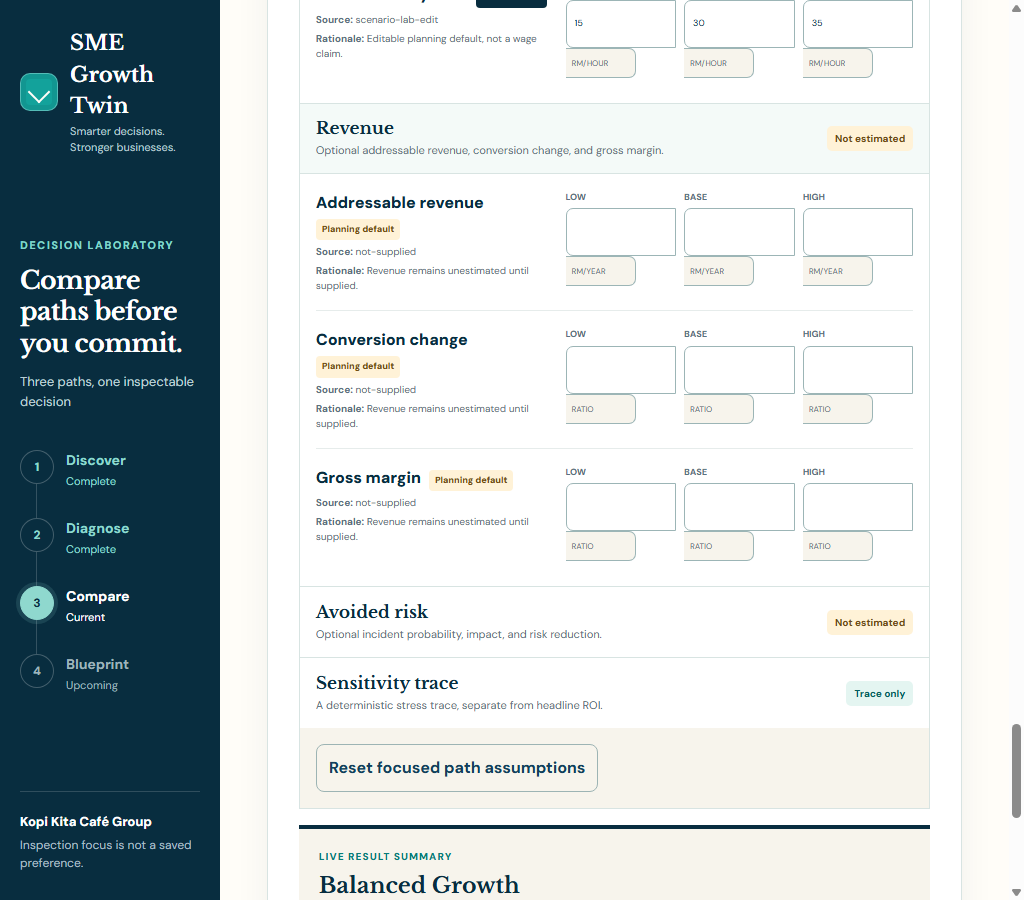
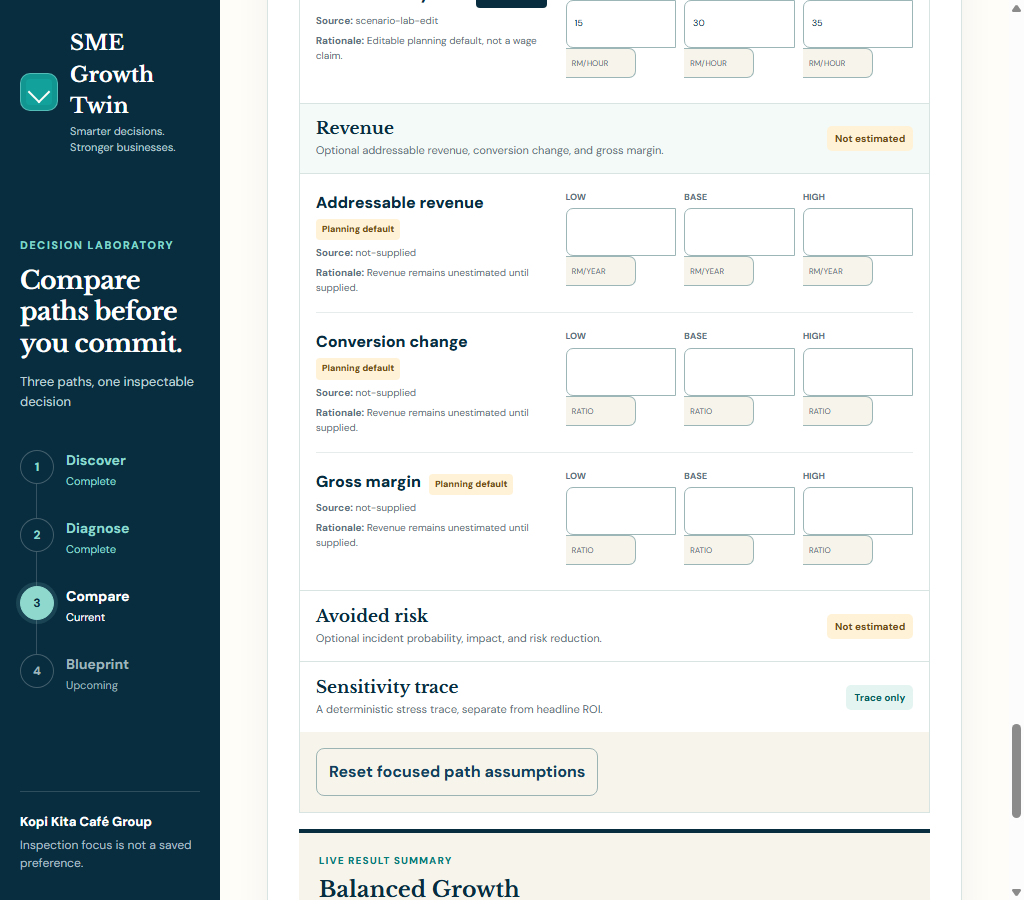
refactor(ui): consolidate scenario ROI styles

diff --git a/sme-growth-twin/src/app/styles.css b/sme-growth-twin/src/app/styles.css
@@ -905,89 +905,8 @@ select:focus-visible, textarea:focus-visible {
 .journey-rail .done span { color: white; background: #69b6ad; }
 .journey-rail .current { color: var(--teal); font-weight: 800; }
 .journey-rail .current span { color: white; background: var(--teal); box-shadow: 0 0 0 5px #dff4ef; }
-.scenarios-shell { max-width: 1440px; margin: auto; padding: 6px clamp(24px, 5vw, 72px) 72px; }
-.scenarios-hero { min-height: 190px; display: grid; grid-template-columns: minmax(0, 1.2fr) minmax(320px, .55fr); gap: clamp(28px, 5vw, 72px); align-items: center; }
-.scenarios-hero h1 { margin: 0; font: 700 clamp(40px, 4.5vw, 66px)/1.04 Georgia, serif; letter-spacing: -.035em; }
-.scenarios-hero aside { padding: 20px 22px; display: grid; gap: 7px; border: 1px solid #cae7e4; border-radius: 17px; background: linear-gradient(135deg, white, #eff9f7); }
-.scenarios-hero aside span, .scenarios-hero aside small { color: var(--muted); }
-.comparison-intro { margin: 18px 0 22px; padding: 21px 24px; display: flex; justify-content: space-between; align-items: center; gap: 30px; border: 1px solid #d7e9ea; border-radius: 16px; background: #f7fbfb; }
-.comparison-intro h2 { margin: 0; font: 700 28px Georgia, serif; }
-.comparison-intro p { margin: 4px 0 0; color: var(--muted); }
-.comparison-intro > p { max-width: 390px; font-size: 13px; text-align: right; }
-.scenario-grid { display: grid; grid-template-columns: repeat(3, minmax(0, 1fr)); gap: 18px; align-items: start; }
-.scenario-card { min-width: 0; overflow: hidden; border: 1px solid #cce6e2; border-radius: 19px; background: linear-gradient(160deg, #eaf8f4, white 25%); box-shadow: 0 10px 32px rgb(18 54 87 / 5%); }
-.scenario-card.balanced_growth { border-color: #c7dff4; background: linear-gradient(160deg, #edf6ff, white 25%); }
-.scenario-card.accelerated_ai { border-color: #efd6b5; background: linear-gradient(160deg, #fff6e9, white 25%); }
-.scenario-card.focused { box-shadow: 0 0 0 3px rgb(0 117 118 / 13%), 0 14px 38px rgb(18 54 87 / 8%); }
-.scenario-card > header { min-height: 160px; padding: 22px; display: flex; justify-content: space-between; gap: 14px; border-bottom: 1px solid var(--line); }
-.scenario-card h2 { margin: 2px 0 4px; font: 700 27px Georgia, serif; }
-.scenario-card header p { margin: 5px 0; color: var(--muted); font-size: 13px; }
-.scenario-kicker { color: var(--teal) !important; font-weight: 800; text-transform: uppercase; letter-spacing: .1em; }
-.preferred-chip { height: fit-content; flex: none; padding: 5px 9px; border-radius: 999px; color: white; background: var(--teal); font-size: 11px; font-weight: 800; }
-.scenario-metrics { margin: 0; padding: 15px 20px; display: grid; grid-template-columns: 1fr 1fr; }
-.scenario-metric { min-width: 0; padding: 11px 7px; border-bottom: 1px solid var(--line); }
-.scenario-metric dt { color: var(--muted); font-size: 10px; text-transform: uppercase; }
-.scenario-metric dd { margin: 3px 0 0; overflow-wrap: anywhere; color: var(--navy); font-size: 12px; font-weight: 800; }
-.scenario-scope { margin: 0 20px 15px; padding: 15px; border-radius: 11px; background: #f1f9f7; }
-.balanced_growth .scenario-scope { background: #f1f7fd; }
-.accelerated_ai .scenario-scope { background: #fff7ed; }
-.scenario-scope h3 { margin: 0; font: 700 16px Georgia, serif; }
-.scenario-scope ul { margin: 9px 0 0; padding-left: 18px; color: var(--muted); font-size: 12px; }
-.conditional-scope { margin-top: 13px; padding-top: 12px; border-top: 1px solid #e5cda9; color: #94510e; font-size: 12px; }
-.conditional-scope p { margin: 6px 0 0; }
-.quote-note { margin: 0 20px 14px; color: #755019; font-size: 11px; font-weight: 700; }
-.scenario-actions { padding: 0 20px 20px; display: grid; grid-template-columns: 1fr 1fr; gap: 8px; }
-.scenario-actions .button { min-width: 0; min-height: 44px; padding: 8px 10px; font-size: 11px; }
-.scenario-detail { margin-top: 25px; padding: clamp(18px, 3vw, 28px); border: 1px solid var(--line); border-radius: 19px; background: rgb(255 255 255 / 95%); box-shadow: 0 10px 34px rgb(18 54 87 / 5%); }
-.scenario-detail > header { display: flex; justify-content: space-between; gap: 24px; align-items: center; }
-.scenario-detail h2 { margin: 0; font: 700 30px Georgia, serif; }
-.scenario-detail header p { margin: 5px 0 0; color: var(--muted); }
-.detail-summary { flex: none; padding: 13px 16px; border-radius: 11px; background: #eff9f7; text-align: right; }
-.detail-summary strong, .detail-summary span { display: block; }
-.detail-summary span { color: var(--muted); font-size: 10px; }
-.timeline { margin-top: 22px; display: grid; grid-template-columns: repeat(12, minmax(76px, 1fr)); gap: 5px; overflow-x: auto; padding-bottom: 8px; }
-.timeline article { min-height: 126px; padding: 10px 8px; border-top: 4px solid #65bdb0; border-radius: 8px; background: #f4f9f9; }
-.timeline strong, .timeline span, .timeline small { display: block; }
-.timeline strong { font-size: 10px; }
-.timeline span { margin-top: 8px; color: var(--navy); font-size: 9px; }
-.timeline small { margin-top: 6px; color: #8a5a16; font-size: 8px; }
-.detail-columns { margin-top: 18px; display: grid; grid-template-columns: 1fr 1fr; gap: 15px; }
-.detail-columns > section { min-width: 0; padding: 17px; border-radius: 12px; background: #f6faf9; }
-.detail-columns h3 { margin: 0 0 10px; font: 700 18px Georgia, serif; }
-.detail-columns p, .detail-columns li { color: var(--muted); font-size: 12px; }
-.detail-columns dl { margin: 0; }
-.detail-columns dl div { padding: 7px 0; display: flex; justify-content: space-between; gap: 14px; border-bottom: 1px solid var(--line); font-size: 11px; }
-.detail-columns dd { margin: 0; text-align: right; font-weight: 800; }
-.detail-columns summary { min-height: 44px; display: flex; align-items: center; color: var(--teal); font-size: 12px; font-weight: 800; cursor: pointer; }
-.warning-list { padding: 12px 12px 12px 28px; border: 1px solid #efd09d; border-radius: 10px; background: #fff8ec; }
-.assumptions-panel { margin-top: 20px; border: 1px solid var(--line); border-radius: 19px; background: white; overflow: hidden; }
-.assumptions-panel > summary { min-height: 70px; padding: 16px 22px; display: flex; justify-content: space-between; align-items: center; gap: 20px; color: var(--teal); background: linear-gradient(135deg, #eef9f7, #f5f9ff); cursor: pointer; }
-.assumptions-panel > summary span > * { display: block; }
-.assumptions-panel > summary strong { color: var(--navy); font: 700 23px Georgia, serif; }
-.assumptions-panel > summary small { color: var(--muted); font-size: 12px; }
-.assumption-groups { padding: 18px; display: grid; grid-template-columns: 1fr 1fr; gap: 14px; }
-.assumption-group { min-width: 0; margin: 0; padding: 16px; border: 1px solid #d4e9e5; border-radius: 13px; background: #fbfefd; }
-.assumption-group.revenue { border-color: #d8e4f1; background: #f8fbff; }
-.assumption-group.avoidedRisk { border-color: #efd9ba; background: #fffaf2; }
-.assumption-group legend { padding: 0 7px; font: 700 20px Georgia, serif; }
-.assumption-row { padding: 13px 0; display: grid; grid-template-columns: minmax(150px, .8fr) minmax(270px, 1.2fr); gap: 14px; border-bottom: 1px solid var(--line); }
-.assumption-row > div:first-child label { font-weight: 800; }
-.assumption-row > div:first-child small, .assumption-row > div:first-child p { display: block; margin: 4px 0 0; color: var(--muted); font-size: 10px; }
-.range-inputs { display: grid; grid-template-columns: repeat(3, 1fr); gap: 6px; }
-.range-inputs label span { display: block; margin-bottom: 4px; color: var(--muted); font-size: 9px; text-transform: uppercase; }
-.range-inputs input, .sensitivity input { min-width: 0; width: 100%; min-height: 44px; padding: 8px; border: 1px solid #bfd3d7; border-radius: 8px; color: var(--navy); background: white; }
-.range-inputs input[aria-invalid="true"] { border-color: var(--coral); }
-.range-inputs .error { font-size: 9px; }
-.reset-link { min-height: 44px; margin-top: 10px; padding: 8px 0; border: 0; color: var(--teal); background: transparent; font-weight: 800; text-decoration: underline; cursor: pointer; }
-.assumption-group.sensitivity { grid-column: 1 / -1; }
-.stage-five-handoff { margin-top: 22px; padding: 22px 24px; display: flex; justify-content: space-between; align-items: center; gap: 22px; border-radius: 16px; background: linear-gradient(135deg, #eaf7f5, #f4f8ff); }
-.stage-five-handoff h2 { margin: 0; font: 700 28px Georgia, serif; }
-.stage-five-handoff p:not(.eyebrow) { margin: 5px 0 0; color: var(--muted); }
-
 @media (max-width: 1000px) {
   .review-grid { grid-template-columns: repeat(2, minmax(0, 1fr)); }
-  .scenario-grid { grid-template-columns: 1fr; }
-  .scenario-card > header { min-height: auto; }
 }
 @media (max-width: 900px) {
   .progress { margin: 0 24px 28px; }
@@ -1005,17 +924,13 @@ select:focus-visible, textarea:focus-visible {
   .metrics-grid, .insight-grid { grid-template-columns: 1fr; }
   .results-footer { grid-template-columns: 1fr; }
   .journey-rail { margin: 0 24px 28px; }
-  .scenarios-shell { padding-top: 0; }
-  .scenarios-hero { min-height: auto; grid-template-columns: 1fr; }
-  .assumption-groups { grid-template-columns: 1fr; }
-  .assumption-group.sensitivity { grid-column: auto; }
 }
 @media (max-width: 620px) {
   .topbar { padding: 18px 16px; }
   .brand small, .trust-chip { display: none; }
   .save-status { font-size: 12px; }
-  .home, .assessment-shell, .review-shell, .analysis-shell, .results-shell, .scenarios-shell { padding-right: 16px; padding-left: 16px; }
-  .assessment-shell, .review-shell, .analysis-shell, .results-shell, .scenarios-shell { padding-bottom: calc(3rem + env(safe-area-inset-bottom)); }
+  .home, .assessment-shell, .review-shell, .analysis-shell, .results-shell { padding-right: 16px; padding-left: 16px; }
+  .assessment-shell, .review-shell, .analysis-shell, .results-shell { padding-bottom: calc(3rem + env(safe-area-inset-bottom)); }
   .home { padding-top: 48px; }
   .hero h1, .assessment-shell h1, .review-shell > h1 { font-size: 38px; }
   .coverage { margin-top: 52px; }
@@ -1052,29 +967,6 @@ select:focus-visible, textarea:focus-visible {
   .results-footer .button { width: 100%; }
   .journey-rail { margin-right: 16px; margin-left: 16px; }
   .journey-rail li em { font-size: 10px; }
-  .scenarios-hero h1 { font-size: 36px; }
-  .comparison-intro, .stage-five-handoff { padding: 17px 14px; display: block; }
-  .comparison-intro > p { margin-top: 12px; text-align: left; }
-  .scenario-card > header { padding: 18px 14px; }
-  .scenario-metrics { padding: 12px; }
-  .scenario-scope { margin-right: 14px; margin-left: 14px; }
-  .quote-note { margin-right: 14px; margin-left: 14px; }
-  .scenario-actions { padding: 0 14px 16px; grid-template-columns: 1fr; }
-  .scenario-actions .button { width: 100%; }
-  .scenario-detail { padding: 17px 14px; }
-  .scenario-detail > header { display: block; }
-  .detail-summary { margin-top: 14px; text-align: left; }
-  .timeline { display: grid; grid-template-columns: 1fr; overflow: visible; }
-  .timeline article { min-height: 0; border-top: 0; border-left: 4px solid #65bdb0; }
-  .detail-columns { grid-template-columns: 1fr; }
-  .assumptions-panel > summary { padding: 14px; }
-  .assumptions-panel > summary > span:last-child { display: none; }
-  .assumption-groups { padding: 12px; }
-  .assumption-group { padding: 13px 11px; }
-  .assumption-row { grid-template-columns: 1fr; }
-  .range-inputs { grid-template-columns: 1fr; }
-  .range-inputs label { min-width: 0; }
-  .stage-five-handoff .button { width: 100%; margin-top: 15px; }
 }
 @media (prefers-reduced-motion: reduce) {
   *, *::before, *::after {
@@ -2465,7 +2357,9 @@ select:focus-visible, textarea:focus-visible {
 .assumption-row { min-width: 0; padding: 17px 0; display: grid; grid-template-columns: minmax(190px, .8fr) minmax(320px, 1.2fr); gap: 18px; border-bottom: 1px solid #e6eceb; }
 .assumption-row:last-child { border-bottom: 0; }
 .assumption-context { min-width: 0; }
-.assumption-context > .assumption-label { margin-right: 8px; color: var(--color-ink-950); font-weight: 850; }
+.assumption-context > .assumption-label,
+.assumption-context > label { margin-right: 8px; color: var(--color-ink-950); font-weight: 850; }
+.assumption-row > .assumption-context > label { font-weight: 800; }
 .source-badge { padding: 4px 6px; display: inline-block; border-radius: 4px; font-size: 9px; font-weight: 850; }
 .source-user_fact { color: #205d4d; background: #dff1e9; }
 .source-derived_user_fact { color: #24567a; background: #e1eef7; }
@@ -2475,7 +2369,7 @@ select:focus-visible, textarea:focus-visible {
 .range-inputs { min-width: 0; display: grid; grid-template-columns: repeat(3, minmax(0, 1fr)); gap: 8px; }
 .range-inputs > label > span:first-child,
 .seed-field > span { margin-bottom: 4px; display: block; color: var(--color-text-muted); font-size: 9px; font-weight: 800; text-transform: uppercase; }
-.input-with-unit { min-width: 0; display: grid; grid-template-columns: minmax(0, 1fr) auto; align-items: stretch; }
+.input-with-unit { min-width: 0; margin-bottom: 4px; display: block; color: var(--color-text-muted); font-size: 9px; text-transform: uppercase; }
 .input-with-unit input,
 .seed-field input { min-width: 0; width: 100%; min-height: 48px; padding: 9px 8px; border: 1px solid #9cb5b6; border-radius: 7px 0 0 7px; color: var(--color-ink-950); background: white; }
 .input-with-unit small { max-width: 70px; padding: 8px 6px; display: flex; align-items: center; border: 1px solid #9cb5b6; border-left: 0; border-radius: 0 7px 7px 0; color: var(--color-text-muted); background: var(--color-paper-100); font-size: 8px; overflow-wrap: anywhere; }
@@ -2595,6 +2489,7 @@ select:focus-visible, textarea:focus-visible {
   .assumption-section > summary span > small { max-width: 210px; }
   .assumption-section fieldset { padding: 0 12px 4px; }
   .range-inputs { grid-template-columns: 1fr; }
+  .range-inputs label { min-width: 0; }
   .input-with-unit small { min-width: 74px; max-width: 100px; }
   .reset-assumptions > div { grid-template-columns: 1fr; }
   .reset-assumptions .button { width: 100%; }

diff --git a/sme-growth-twin/tests/unit/phase05-scenario-roi-ui.test.tsx b/sme-growth-twin/tests/unit/phase05-scenario-roi-ui.test.tsx
@@ -60,4 +60,16 @@ describe("Phase 05 Scenario and ROI Lab UI contract", () => {
     expect(source).toContain("recalculateScenarioComparison(");
     expect(source).not.toMatch(/fetch\(|XMLHttpRequest|WebSocket|ModelProvider/);
   });
+
+  it("keeps one authoritative Phase 05 scenario style system", async () => {
+    const styles = await readFile(path.join(process.cwd(), "src/app/styles.css"), "utf8");
+    for (const legacySelector of [
+      ".scenarios-shell {", ".scenarios-hero {", ".comparison-intro {", ".scenario-grid {",
+      ".scenario-card {", ".scenario-metrics {", ".scenario-detail {", ".timeline {",
+      ".assumptions-panel {", ".assumption-groups {", ".assumption-group {", ".stage-five-handoff {",
+    ]) expect(styles).not.toContain(legacySelector);
+    expect(styles.match(/\/\* Phase 05: scenario comparison and ROI decision laboratory \*\//g)).toHaveLength(1);
+    expect(styles.match(/^\.assumption-row \{/gm)).toHaveLength(1);
+    expect(styles.match(/^\.range-inputs \{/gm)).toHaveLength(1);
+  });
 });
